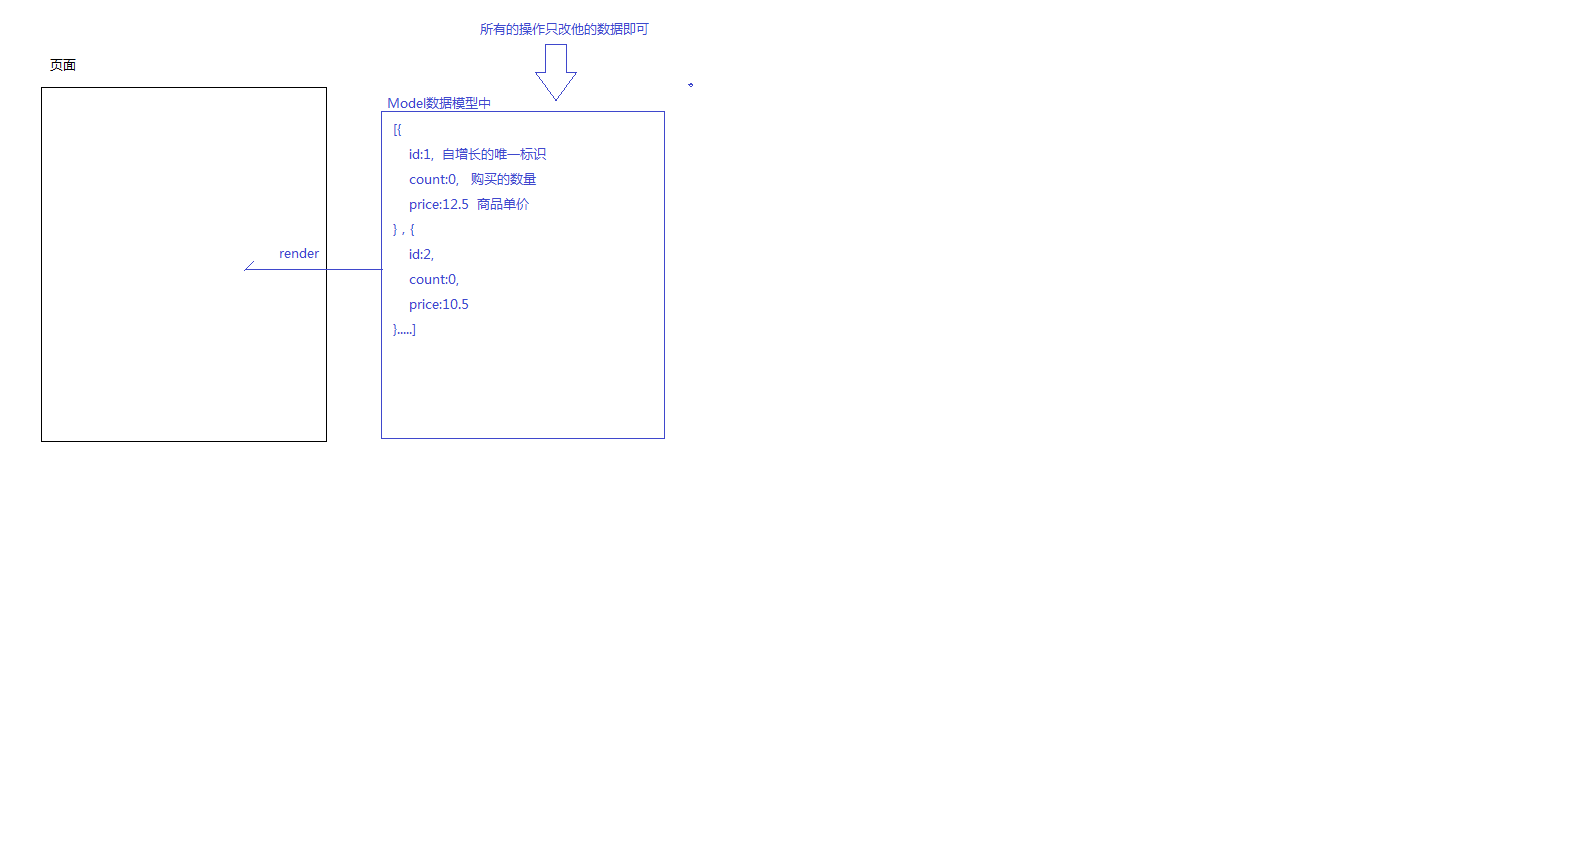
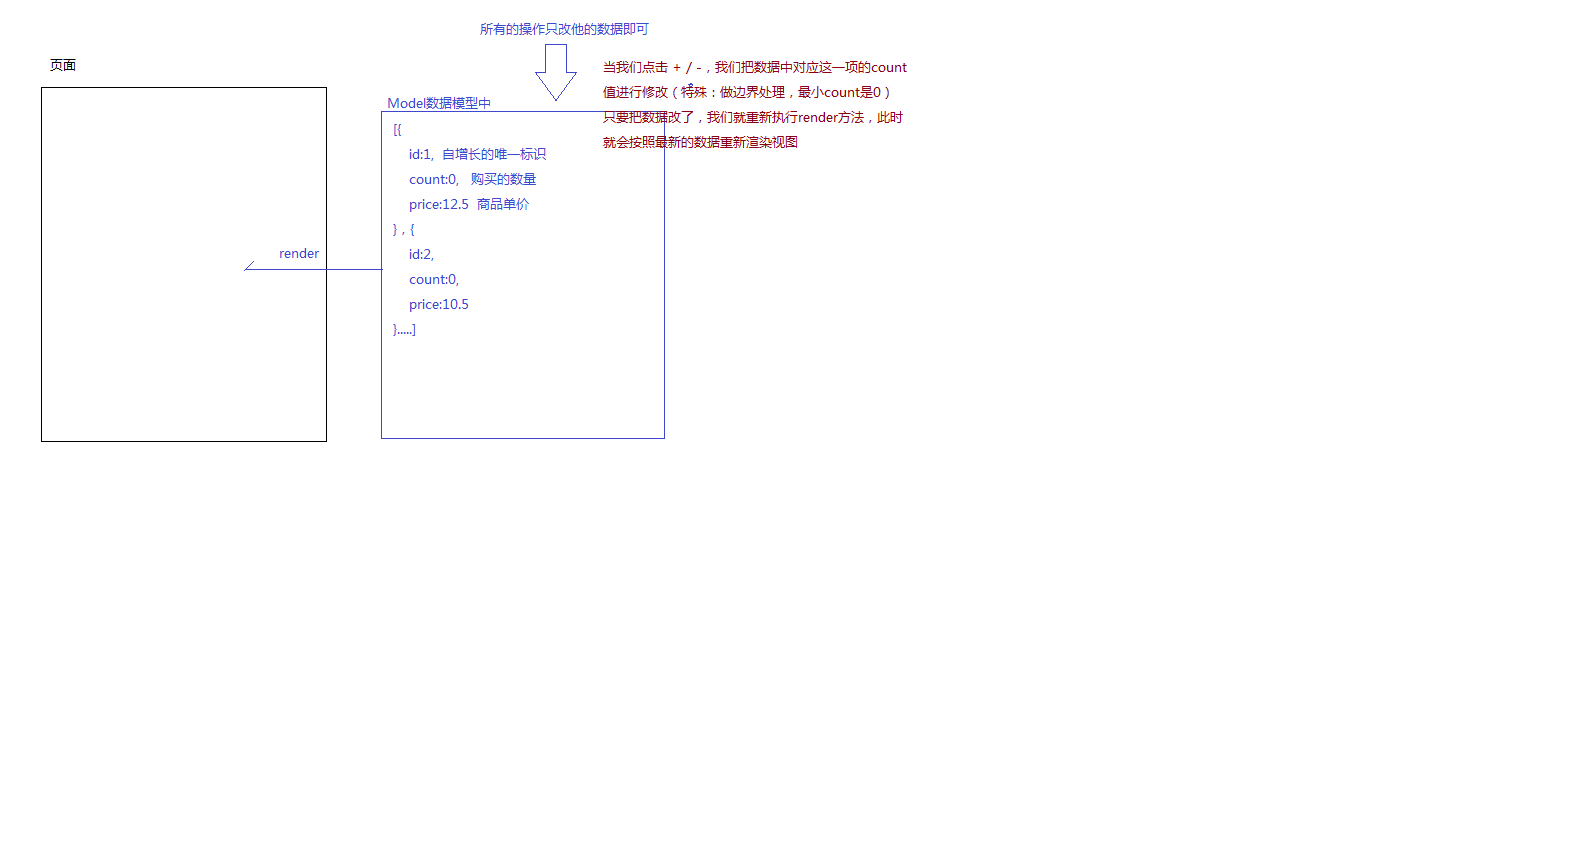
案例练习

Changed region(s): [[0.3703, 0.0616, 0.5863, 0.1848]]

diff --git a/0403/实战作业效果视频和素材页面/购物车/index.js b/0403/实战作业效果视频和素材页面/购物车/index.js
@@ -27,26 +27,71 @@ let shopModule = (function () {
 
 	// 渲染数据
 	let render = function render() {
+		// 总信息
+		let counts = 0,
+			total = 0,
+			priceArr = [0];
+		// 数据绑定
 		let str = `<ul class="list">`;
 		data.forEach(item => {
+			let {
+				id,
+				count,
+				price
+			} = item;
+			// 循环数据中的每一项，计算总购买数量和总价格以及把所有单价（已经购买产品的单价）存到数组中
+			counts += count;
+			total += count * price;
+			count > 0 ? priceArr.push(price) : null;
+
 			str += `<li>
-				<i></i>
-				<em>0</em>
-				<i></i>
+				<i data-btn='minus' data-id='${id}'></i>
+				<em>${count}</em>
+				<i data-btn='plus' data-id='${id}'></i>
 				<span>
-					单价：<strong>12.5元 </strong> 小计：<strong>0元</strong>
+					单价：<strong>${price}元 </strong> 
+					小计：<strong>${count*price}元</strong>
 				</span>
 			</li>`;
 		});
 		str += `</ul>`;
 		str += `<div class="info">
-			<span>商品公合计：<em>0</em>件</span>
-			<span>共花费了：<em>0</em>元</span>
+			<span>商品公合计：<em>${counts}</em>件</span>
+			<span>共花费了：<em>${total}</em>元</span>
 			<br />
 			<br />
-			<span>其中最贵的商品单价是：<em>0</em>元</span>
+			<span>其中最贵的商品单价是：<em>${Math.max(...priceArr)}</em>元</span>
 		</div>`;
 		box.innerHTML = str;
+
+		// 每一次页面按照数据重新渲染完，都获取所有的+/-标签，绑定点击事件
+		handle();
+	};
+
+	// 事件绑定
+	let handle = function handle() {
+		let btns = Array.from(box.querySelectorAll('i'));
+		btns.forEach(item => {
+			item.onclick = function () {
+				// 每一次点击，我们需要明确出两个值：加还是减？哪一行（对应哪个数据）？
+				let btn = this.getAttribute('data-btn'),
+					id = this.getAttribute('data-id');
+				id = parseInt(id); //=>getAttribute获取的结果都是字符串
+				data = data.map(cur => {
+					if (cur.id === id) {
+						// 操作修改的是当前这一项
+						if (btn === 'minus') {
+							cur.count--;
+							cur.count < 0 ? cur.count = 0 : null;
+						} else {
+							cur.count++;
+						}
+					}
+					return cur;
+				});
+				render();
+			};
+		});
 	};
 
 	return {

diff --git a/0403/实战作业效果视频和素材页面/购物车/index.html b/0403/实战作业效果视频和素材页面/购物车/index.html
@@ -13,11 +13,12 @@
 		<div class="box">
 			<!-- <ul class="list">
 				<li>
-					<i></i>
+					<i data-btn='minus' data-id='1'></i>
 					<em>0</em>
-					<i></i>
+					<i data-btn='plus' data-id='1'></i>
 					<span>
-						单价：<strong>12.5元 </strong> 小计：<strong>0元</strong>
+						单价：<strong>12.5元 </strong> 
+						小计：<strong>0元</strong>
 					</span>
 				</li>
 			</ul>
